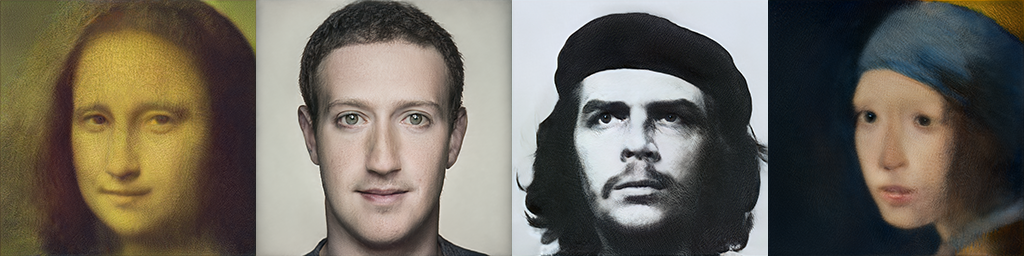
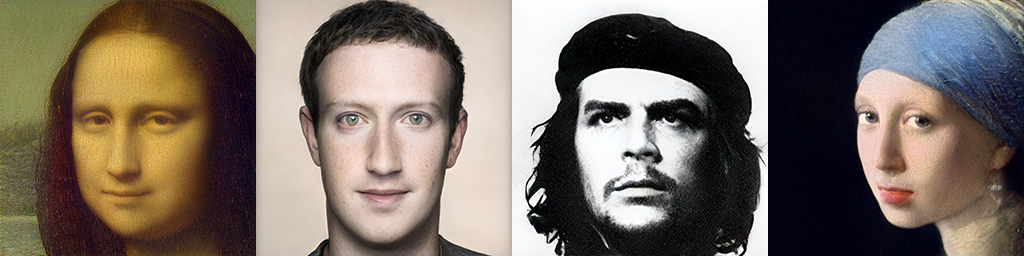
add projector

diff --git a/project_images.py b/project_images.py
@@ -1,0 +1,117 @@
+import argparse
+import os
+import shutil
+import numpy as np
+
+import dnnlib
+import dnnlib.tflib as tflib
+import pretrained_networks
+import projector
+import dataset_tool
+from training import dataset
+from training import misc
+
+
+def project_image(proj, src_file, dst_dir, tmp_dir, video=False):
+
+    data_dir = '%s/dataset' % tmp_dir
+    if os.path.exists(data_dir):
+        shutil.rmtree(data_dir)
+    image_dir = '%s/images' % data_dir
+    tfrecord_dir = '%s/tfrecords' % data_dir
+    os.makedirs(image_dir, exist_ok=True)
+    shutil.copy(src_file, image_dir + '/')
+    dataset_tool.create_from_images(tfrecord_dir, image_dir, shuffle=0)
+    dataset_obj = dataset.load_dataset(
+        data_dir=data_dir, tfrecord_dir='tfrecords',
+        max_label_size=0, repeat=False, shuffle_mb=0
+    )
+
+    print('Projecting image "%s"...' % os.path.basename(src_file))
+    images, _labels = dataset_obj.get_minibatch_np(1)
+    images = misc.adjust_dynamic_range(images, [0, 255], [-1, 1])
+    proj.start(images)
+    if video:
+        video_dir = '%s/video' % tmp_dir
+        os.makedirs(video_dir, exist_ok=True)
+    while proj.get_cur_step() < proj.num_steps:
+        print('\r%d / %d ... ' % (proj.get_cur_step(), proj.num_steps), end='', flush=True)
+        proj.step()
+        if video:
+            filename = '%s/%08d.png' % (video_dir, proj.get_cur_step())
+            misc.save_image_grid(proj.get_images(), filename, drange=[-1,1])
+    print('\r%-30s\r' % '', end='', flush=True)
+
+    os.makedirs(dst_dir, exist_ok=True)
+    filename = os.path.join(dst_dir, os.path.basename(src_file)[:-4] + '.png')
+    misc.save_image_grid(proj.get_images(), filename, drange=[-1,1])
+    filename = os.path.join(dst_dir, os.path.basename(src_file)[:-4] + '.npy')
+    np.save(filename, proj.get_dlatents()[0])
+
+
+def render_video(src_file, dst_dir, tmp_dir, num_frames, size, fps, codec, bitrate):
+
+    import PIL.Image
+    import moviepy.editor
+
+    def render_frame(t):
+        frame = np.clip(np.ceil(t * fps), 1, num_frames)
+        canvas = PIL.Image.new('RGB', (2 * src_size, src_size))
+        canvas.paste(src_image, (0, 0))
+        image = PIL.Image.open('%s/video/%08d.png' % (tmp_dir, frame))
+        canvas.paste(image, (src_size, 0))
+        if size != src_size:
+            canvas = canvas.resize((2 * size, size), PIL.Image.LANCZOS)
+        return np.array(canvas)
+
+    src_image = PIL.Image.open(src_file)
+    src_size = src_image.size[1]
+    duration = num_frames / fps
+    filename = os.path.join(dst_dir, os.path.basename(src_file)[:-4] + '.mp4')
+    video_clip = moviepy.editor.VideoClip(render_frame, duration=duration)
+    video_clip.write_videofile(filename, fps=fps, codec=codec, bitrate=bitrate)
+
+
+def main():
+
+    parser = argparse.ArgumentParser(description='Project real-world images into StyleGAN2 latent space')
+    parser.add_argument('src_dir', help='Directory with aligned images for projection')
+    parser.add_argument('dst_dir', help='Output directory')
+    parser.add_argument('--tmp_dir', default='.stylegan2-tmp', help='Temporary directory for tfrecords and video frames')
+    parser.add_argument('--network-pkl', default='gdrive:networks/stylegan2-ffhq-config-f.pkl', help='StyleGAN2 network pickle filename')
+    parser.add_argument('--vgg16-pkl', default='https://drive.google.com/uc?id=1N2-m9qszOeVC9Tq77WxsLnuWwOedQiD2', help='VGG16 network pickle filename')
+    parser.add_argument('--num-steps', type=int, default=1000, help='Number of optimization steps')
+    parser.add_argument('--initial-learning-rate', type=float, default=0.1, help='Initial learning rate')
+    parser.add_argument('--initial-noise-factor', type=float, default=0.05, help='Initial noise factor')
+    parser.add_argument('--verbose', type=bool, default=False, help='Verbose output')
+    parser.add_argument('--video', type=bool, default=False, help='Render video of the optimization process')
+    parser.add_argument('--video-size', type=int, default=1024, help='Video size, resolution will be (2*size,size)')
+    parser.add_argument('--video-fps', type=int, default=25, help='Video framerate')
+    parser.add_argument('--video-codec', default='libx264', help='Video codec')
+    parser.add_argument('--video-bitrate', default='10M', help='Video bitrate')
+    args = parser.parse_args()
+
+    print('Loading networks from "%s"...' % args.network_pkl)
+    _G, _D, Gs = pretrained_networks.load_networks(args.network_pkl)
+    proj = projector.Projector(
+        vgg16_pkl             = args.vgg16_pkl,
+        num_steps             = args.num_steps,
+        initial_learning_rate = args.initial_learning_rate,
+        initial_noise_factor  = args.initial_noise_factor,
+        verbose               = args.verbose
+    )
+    proj.set_network(Gs)
+
+    src_files = sorted([os.path.join(args.src_dir, f) for f in os.listdir(args.src_dir) if f[0] not in '._'])
+    for src_file in src_files:
+        project_image(proj, src_file, args.dst_dir, args.tmp_dir, video=args.video)
+        if args.video:
+            render_video(
+                src_file, args.dst_dir, args.tmp_dir, args.num_steps,
+                args.video_size, args.video_fps, args.video_codec, args.video_bitrate
+            )
+        shutil.rmtree(args.tmp_dir)
+
+
+if __name__ == '__main__':
+    main()

diff --git a/projector.py b/projector.py
@@ -14,16 +14,24 @@ from training import misc
 #----------------------------------------------------------------------------
 
 class Projector:
-    def __init__(self):
-        self.num_steps                  = 1000
+    def __init__(self,
+        vgg16_pkl                       = 'http://d36zk2xti64re0.cloudfront.net/stylegan1/networks/metrics/vgg16_zhang_perceptual.pkl',
+        num_steps                       = 1000,
+        initial_learning_rate           = 0.1,
+        initial_noise_factor            = 0.05,
+        verbose                         = False
+    ):
+
+        self.vgg16_pkl                  = vgg16_pkl
+        self.num_steps                  = num_steps
         self.dlatent_avg_samples        = 10000
-        self.initial_learning_rate      = 0.1
-        self.initial_noise_factor       = 0.05
+        self.initial_learning_rate      = initial_learning_rate
+        self.initial_noise_factor       = initial_noise_factor
         self.lr_rampdown_length         = 0.25
         self.lr_rampup_length           = 0.05
         self.noise_ramp_length          = 0.75
         self.regularize_noise_weight    = 1e5
-        self.verbose                    = False
+        self.verbose                    = verbose
         self.clone_net                  = True
 
         self._Gs                    = None
@@ -63,8 +71,8 @@ class Projector:
         # Find dlatent stats.
         self._info('Finding W midpoint and stddev using %d samples...' % self.dlatent_avg_samples)
         latent_samples = np.random.RandomState(123).randn(self.dlatent_avg_samples, *self._Gs.input_shapes[0][1:])
-        dlatent_samples = self._Gs.components.mapping.run(latent_samples, None)[:, :1, :] # [N, 1, 512]
-        self._dlatent_avg = np.mean(dlatent_samples, axis=0, keepdims=True) # [1, 1, 512]
+        dlatent_samples = self._Gs.components.mapping.run(latent_samples, None) # [N, 18, 512]
+        self._dlatent_avg = np.mean(dlatent_samples, axis=0, keepdims=True) # [1, 18, 512]
         self._dlatent_std = (np.sum((dlatent_samples - self._dlatent_avg) ** 2) / self.dlatent_avg_samples) ** 0.5
         self._info('std = %g' % self._dlatent_std)
 
@@ -92,7 +100,7 @@ class Projector:
         self._dlatents_var = tf.Variable(tf.zeros([self._minibatch_size] + list(self._dlatent_avg.shape[1:])), name='dlatents_var')
         self._noise_in = tf.placeholder(tf.float32, [], name='noise_in')
         dlatents_noise = tf.random.normal(shape=self._dlatents_var.shape) * self._noise_in
-        self._dlatents_expr = tf.tile(self._dlatents_var + dlatents_noise, [1, self._Gs.components.synthesis.input_shape[1], 1])
+        self._dlatents_expr = self._dlatents_var + dlatents_noise
         self._images_expr = self._Gs.components.synthesis.get_output_for(self._dlatents_expr, randomize_noise=False)
 
         # Downsample image to 256x256 if it's larger than that. VGG was built for 224x224 images.
@@ -106,7 +114,7 @@ class Projector:
         self._info('Building loss graph...')
         self._target_images_var = tf.Variable(tf.zeros(proc_images_expr.shape), name='target_images_var')
         if self._lpips is None:
-            self._lpips = misc.load_pkl('https://nvlabs-fi-cdn.nvidia.com/stylegan/networks/metrics/vgg16_zhang_perceptual.pkl')
+            self._lpips = misc.load_pkl(self.vgg16_pkl) # vgg16_zhang_perceptual.pkl
         self._dist = self._lpips.get_output_for(proc_images_expr, self._target_images_var)
         self._loss = tf.reduce_sum(self._dist)
 

diff --git a/align_images.py b/align_images.py
@@ -28,7 +28,7 @@ if __name__ == "__main__":
     ALIGNED_IMAGES_DIR = sys.argv[2]
 
     landmarks_detector = LandmarksDetector(landmarks_model_path)
-    for img_name in os.listdir(RAW_IMAGES_DIR):
+    for img_name in [f for f in os.listdir(RAW_IMAGES_DIR) if f[0] not in '._']:
         raw_img_path = os.path.join(RAW_IMAGES_DIR, img_name)
         for i, face_landmarks in enumerate(landmarks_detector.get_landmarks(raw_img_path), start=1):
             face_img_name = '%s_%02d.png' % (os.path.splitext(img_name)[0], i)

diff --git a/dataset_tool.py b/dataset_tool.py
@@ -55,7 +55,7 @@ class TFRecordExporter:
         self.tfr_writers = []
         if self.print_progress:
             print('%-40s\r' % '', end='', flush=True)
-            print('Added %d images.' % self.cur_images)
+            print('Added %d image%s.' % (self.cur_images, 's'[:self.cur_images > 1]))
 
     def choose_shuffled_order(self): # Note: Images and labels must be added in shuffled order.
         order = np.arange(self.expected_images)

diff --git a/README.md b/README.md
@@ -1,4 +1,4 @@
-## StyleGAN2 &mdash; Encoder for Official TensorFlow Implementation
+## StyleGAN2 &mdash; Encoder/Projector for Official TensorFlow Implementation
 ![Python 3.6](https://img.shields.io/badge/python-3.6-green.svg?style=plastic)
 ![TensorFlow 1.10](https://img.shields.io/badge/tensorflow-1.10-green.svg?style=plastic)
 ![cuDNN 7.3.1](https://img.shields.io/badge/cudnn-7.3.1-green.svg?style=plastic)
@@ -22,7 +22,15 @@ You can generate latent representations of your own images using two scripts:
 2) Find latent representation of aligned images
 > python encode_images.py aligned_images/ generated_images/ latent_representations/ path_to_network.pkl
 
-### Original Readme
+### Generating latent representation of your images, using the modified projector
+
+Replace step 2 with:
+
+`python project_images.py aligned_images/ generated_images/`
+
+This is usually preferable. It also allows you to render a video of the optimization process. See `python project_images.py -h` for options.
+ 
+## Original Readme
 ![Teaser image](./docs/stylegan2-teaser-1024x256.png)
 
 **Analyzing and Improving the Image Quality of StyleGAN**<br>
